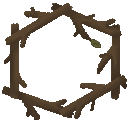
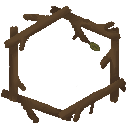
Update images

diff --git a/src/components/menu/Portrait.tsx b/src/components/menu/Portrait.tsx
@@ -1,15 +1,17 @@
 import { Box, Image } from '@chakra-ui/react'
-import { useAppSelector } from '../../hooks/redux'
+import { useAppDispatch, useAppSelector } from '../../hooks/redux'
 import { portraitBorderImages, portraitImages } from '../../constants/portrait'
+import { toggleModal } from '../../features/modal/settingsSlice'
 
 const Portrait = () => {
+  const dispatch = useAppDispatch()
   const portraitBorderIndex = useAppSelector(
     (state) => state.user.portraitBorderIndex,
   )
   const portraitIndex = useAppSelector((state) => state.user.portraitIndex)
 
   return (
-    <Box pos="relative">
+    <Box pos="relative" onClick={() => dispatch(toggleModal())}>
       <Image src={portraitImages[portraitIndex]} />
       <Image
         pos="absolute"

diff --git a/src/constants/portrait.ts b/src/constants/portrait.ts
@@ -1,12 +1,17 @@
 import PortraitBorder00 from '../assets/portrait/border00.png'
 import PortraitBorder01 from '../assets/portrait/border01.png'
+import PortraitBorder02 from '../assets/portrait/border02.png'
 import Portrait01 from '../assets/portrait/portrait01.png'
 import Portrait02 from '../assets/portrait/portrait02.png'
 import Portrait03 from '../assets/portrait/portrait03.png'
 import Portrait04 from '../assets/portrait/portrait04.png'
 import Portrait05 from '../assets/portrait/portrait05.png'
 
-export const portraitBorderImages = [PortraitBorder00, PortraitBorder01]
+export const portraitBorderImages = [
+  PortraitBorder00,
+  PortraitBorder01,
+  PortraitBorder02,
+]
 
 export const portraitImages = [
   Portrait01,
